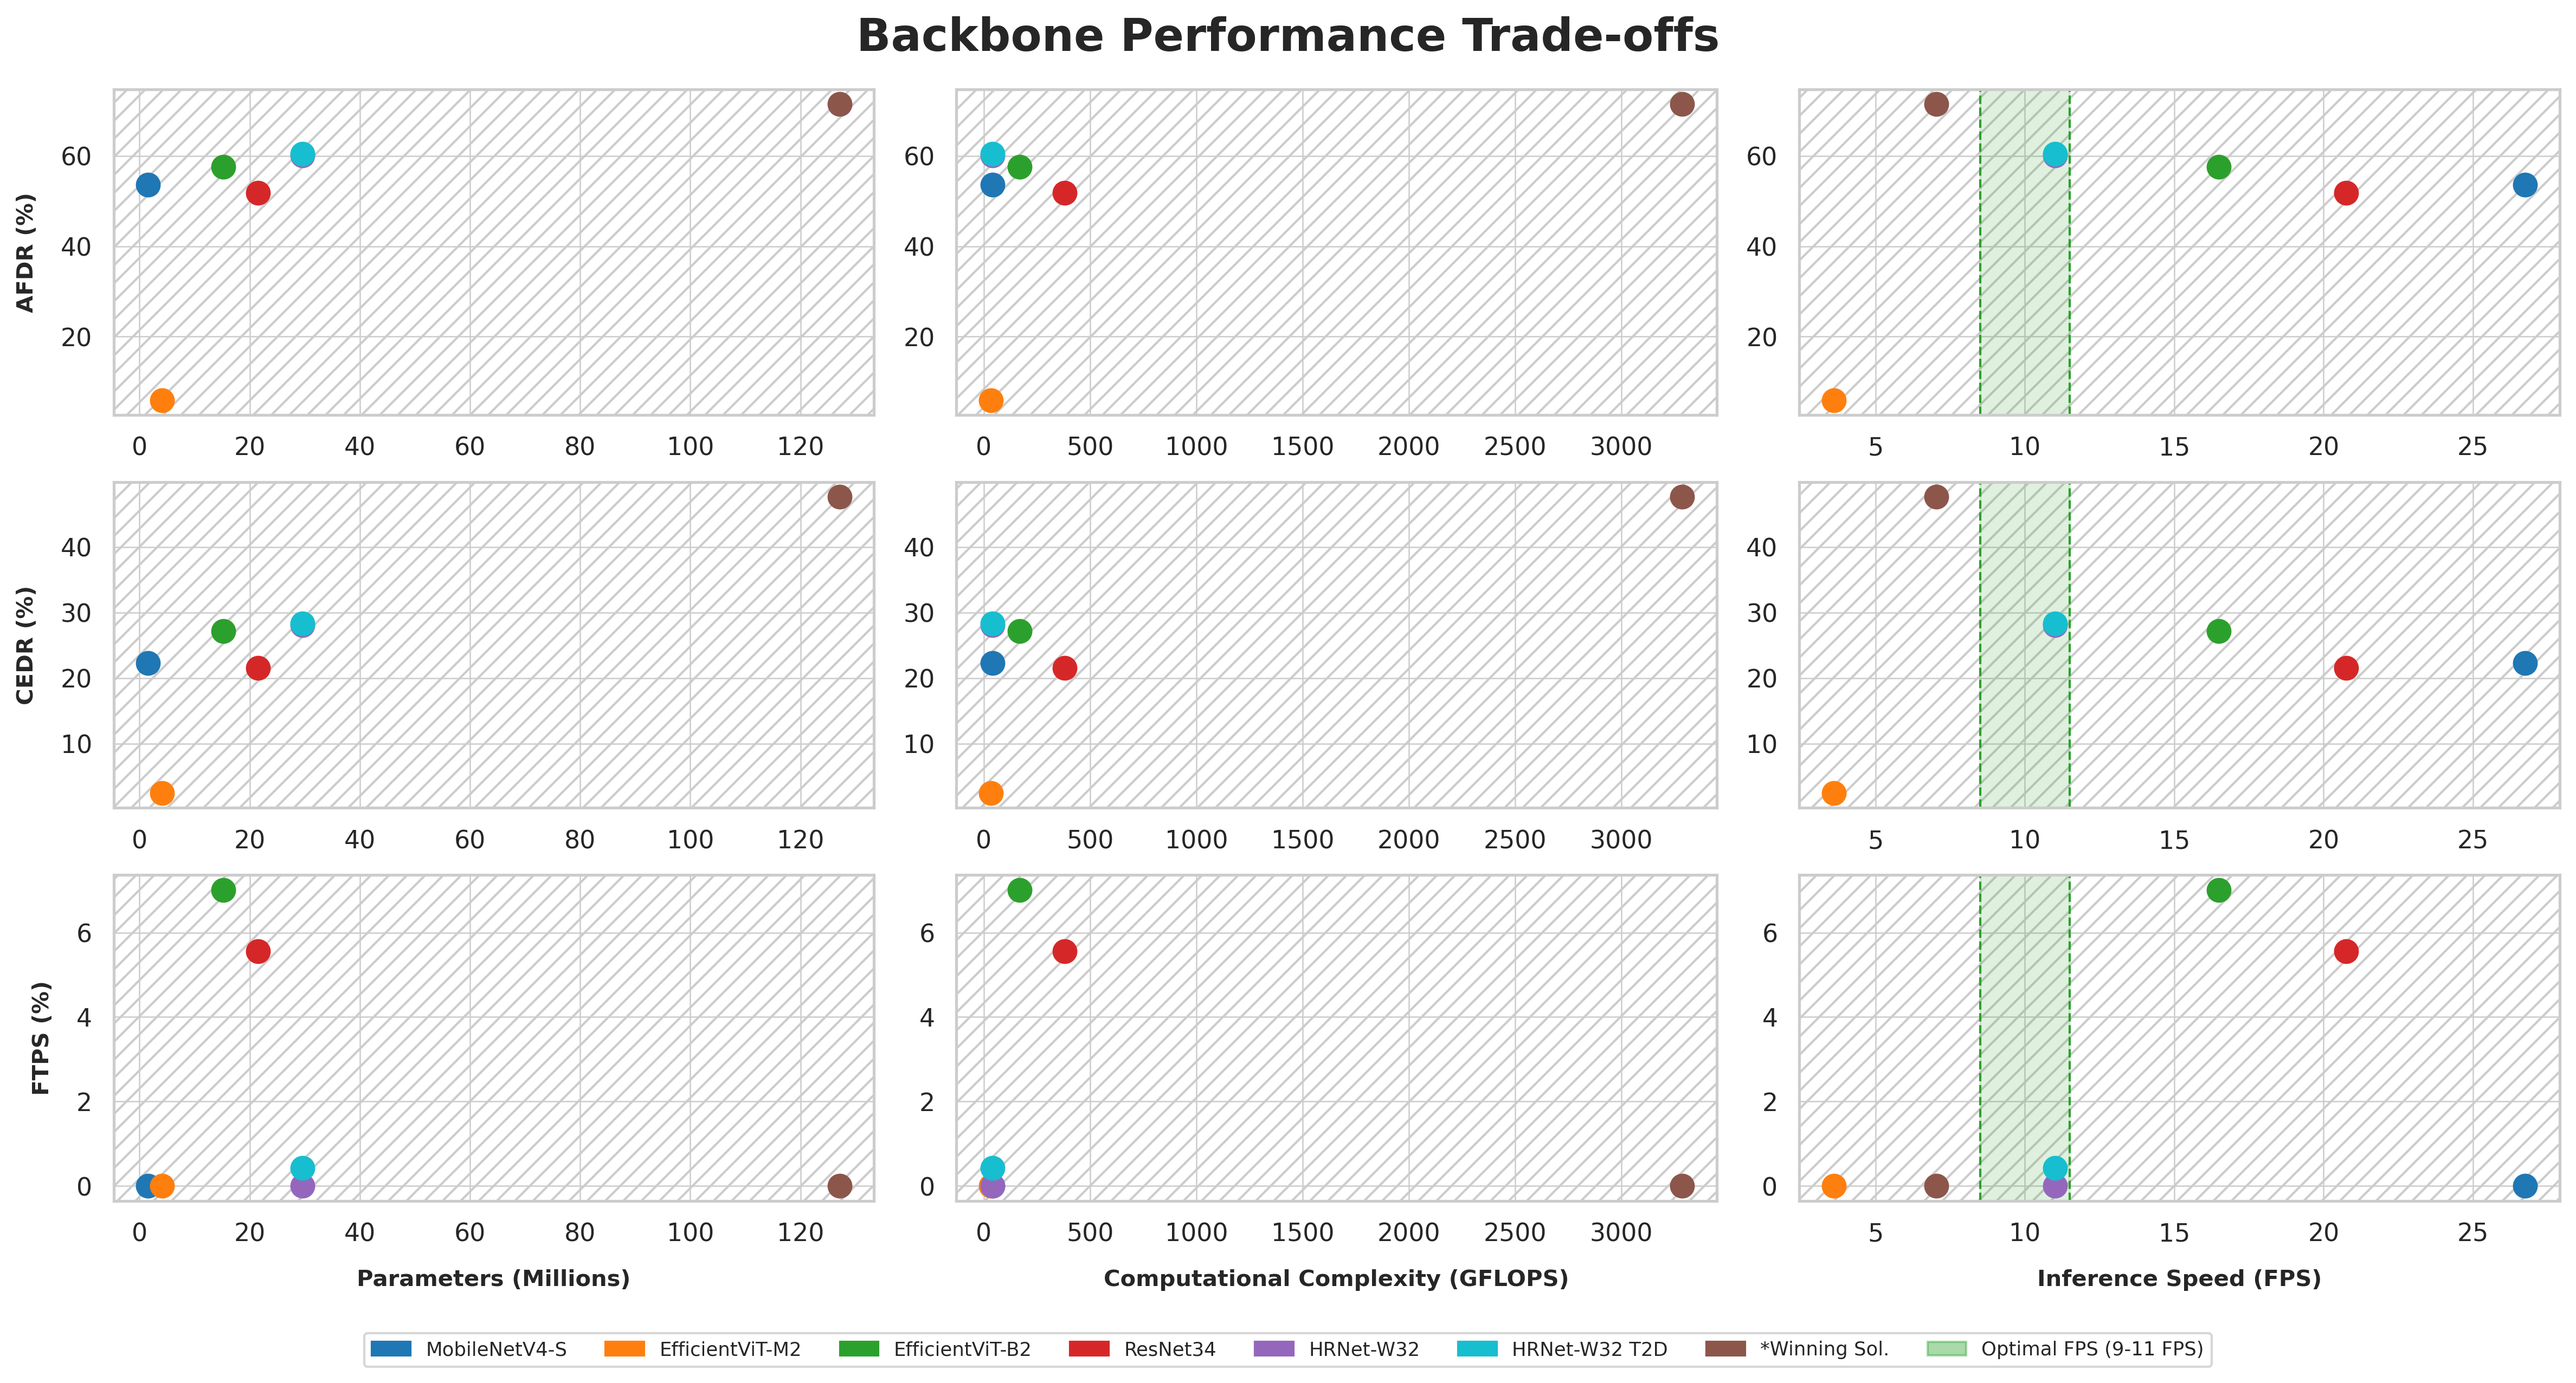
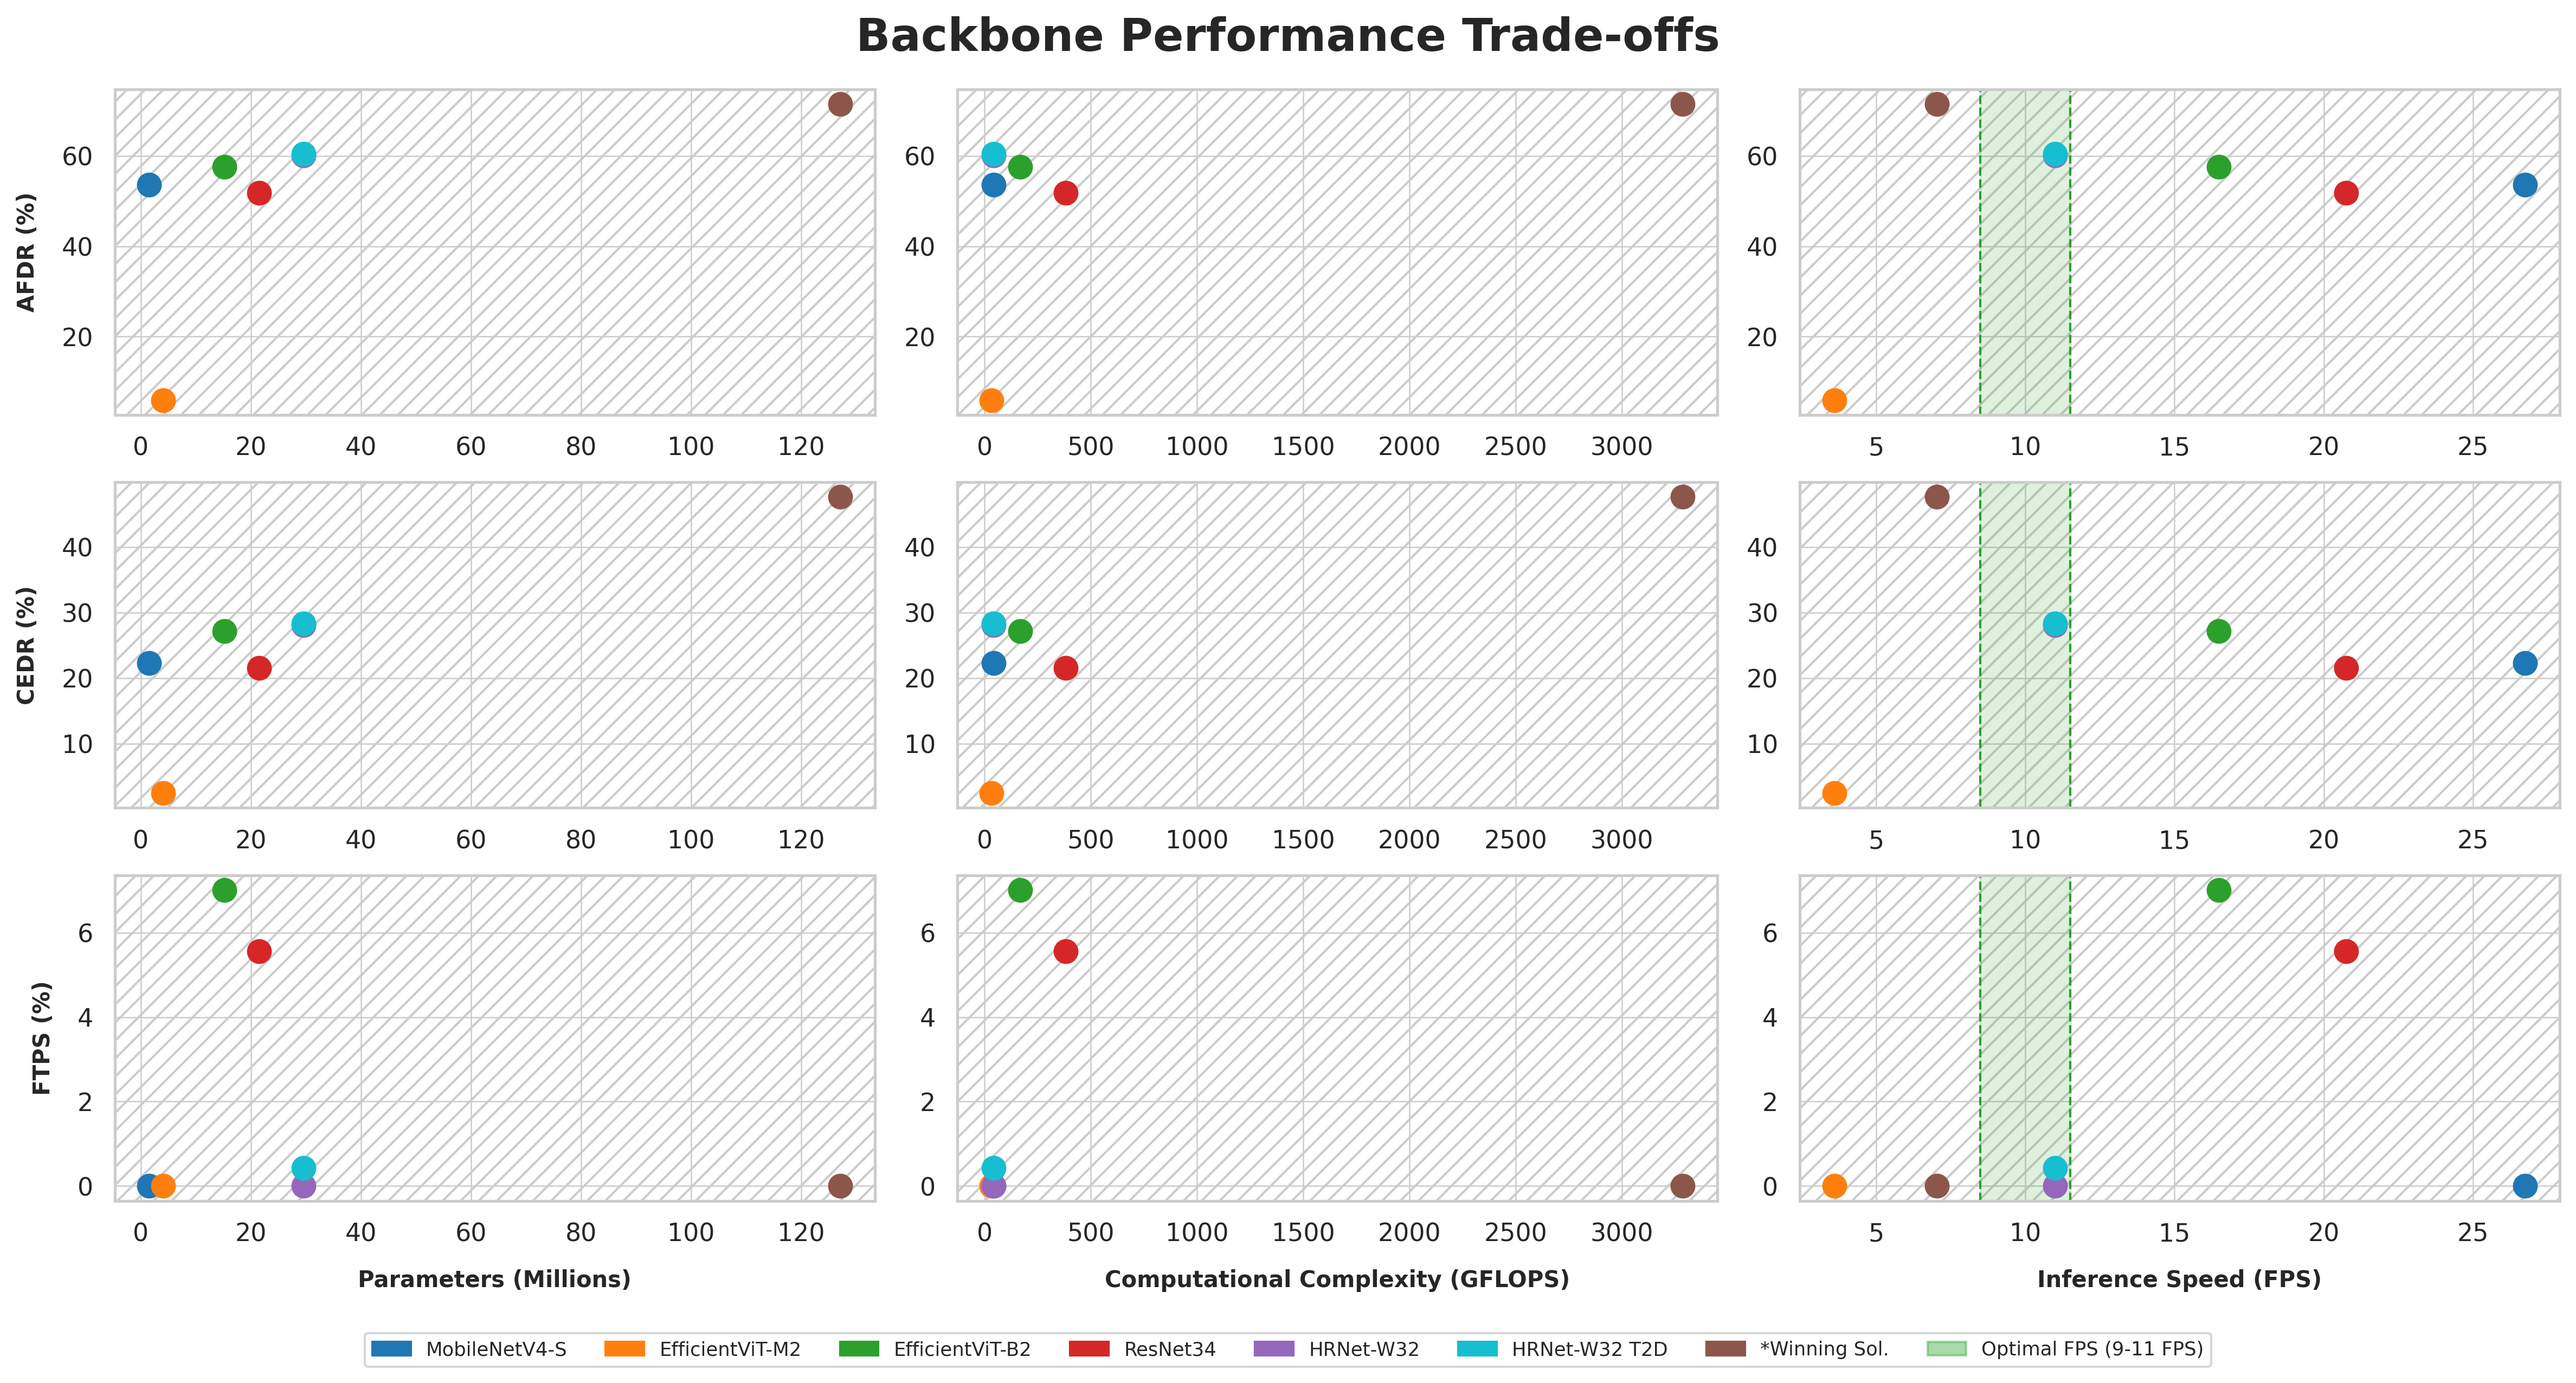
Fixing Legacy Visualisation Tools.

diff --git a/src/data/original_dataset/visualise_detection_results.py b/src/data/original_dataset/visualise_detection_results.py
@@ -1,0 +1,218 @@
+# ------------------------------------------------------------------------------
+# -               V E R S I O N   I D E N T I F I C A T I O N                  -
+# ------------------------------------------------------------------------------
+# File:                    %name: visualise_detection_results.py %
+# Date Created:            %date_created: Mon May 08 12:26:32 2026 %
+# CM Version               %version: 1 %
+# CM Instance              %instance: 2 %
+# Author:                  %created_by: MBusato %
+# ------------------------------------------------------------------------------
+# -                          D E S C R I P T I O N                             -
+# ------------------------------------------------------------------------------
+# This script visualises the baseline backbone model evaluation results stored
+# in model_results_detection_metrics.csv by generating a 3x3 grid of scatter plots comparing
+# detection performance metrics against model complexity and inference speed.
+#
+# The plots are intended to support comparative analysis of backbone
+# architectures by highlighting performance trade-offs, acceptable operating
+# regions, and overall model efficiency. The final figure is exported as a
+# high-resolution PNG suitable for reporting and technical documentation.
+#
+# USAGE INSTRUCTIONS:
+#   1. Run the Script from Project Root:
+#       - python3 -m src.data.original_dataset.visualise_detection_results
+#
+# ------------------------------------------------------------------------------
+# -                          L I C E N S I N G                                 -
+# ------------------------------------------------------------------------------
+# This software and its contents are the intellectual property of Lockheed
+# Martin Australia and are protected under applicable copyright and intellectual
+# property laws.
+#
+# All rights reserved. No part of this software may be reproduced, distributed,
+# modified, or transmitted in any form or by any means without the prior written
+# permission of Lockheed Martin Australia.
+#
+# Unauthorised use, copying, or distribution of this software is strictly
+# prohibited.
+# ------------------------------------------------------------------------------
+
+import pandas as pd
+import matplotlib.pyplot as plt
+import matplotlib.patches as mpatches
+import matplotlib.ticker as ticker
+import seaborn as sns
+
+# ------------------------------------------------------------------------------
+#                                   CONFIGURATION
+# ------------------------------------------------------------------------------
+# Load Data.
+df = pd.read_csv('results/core_improvement/model_results_detection_metrics.csv')
+
+# Variables Used for the X-axis & Y-axis Comparisons.
+x_vars   = ['Params', 'GFLOPS', 'FPS']
+y_vars   = ['AFDR',   'FPPI',   'EDR']
+
+# Human-Readable Axis Labels for Each Metric.
+x_labels = ['Parameters (Millions)', 'Computational Complexity (GFLOPS)', 'Inference Speed (FPS)']
+y_labels = ['AFDR (%)', 'FPPI', 'EDR Total (%)']
+
+# Consistent Colour Mapping for Each Backbone Architecture.
+MODEL_COLOURS = {
+    'MobileNetV4-S':   '#1f77b4',
+    'EfficientViT-M2': '#ff7f0e',
+    'EfficientViT-B2': '#2ca02c',
+    'ResNet34':        '#d62728',
+    'HRNet-W32':       '#9467bd',
+    '*Winning Sol.':   '#8c564b',
+}
+
+# Acceptable FPS Operating Region Used for Visual Highlighting.
+FPS_GREEN_LOW   = 8.5
+FPS_GREEN_HIGH  = 11.5
+FPPI_RED_THRESH = 0.0005
+
+# Symlog Threshold Used for FPPI Visualisation.
+FPPI_LINTHRESH  = 1e-6
+
+# Slightly Extend the Upper FPPI Plotting Limit for Readability.
+FPPI_YMAX       = df['FPPI'].max() * 1.3
+
+# Padding Ratio Applied to Axis Limits So Points Do Not Sit Directly Against 
+# Subplot Boundaries.
+PADDING = 0.05
+
+# Configure the Overall Plotting Theme.
+sns.set_theme(style="whitegrid")
+
+# Create a 3x3 Subplot Layout for All Metric Comparisons.
+fig, axes = plt.subplots(3, 3, figsize=(16, 9), dpi=300)
+
+# Add a Shared Figure Title.
+fig.suptitle('Backbone Performance Trade-offs',
+             fontsize=20, fontweight='bold', y=0.90)
+
+# Define Reusable Padding Function.
+def padded_limits(series, padding=PADDING):
+    """
+    Calculate padded axis limits for improved plot readability.
+
+    Args:
+        series (pd.Series): Data series used to determine axis limits.
+        padding (float):    Fractional padding applied to the data range.
+
+    Returns:
+        tuple: Lower and upper axis limits with padding applied.
+    """
+    lo, hi = series.min(), series.max()
+    span = hi - lo if hi != lo else abs(hi) or 1.0
+    return lo - span * padding, hi + span * padding
+
+# Compute x-axis Limits So all Plots Remain Visually Aligned.
+x_limits = [padded_limits(df[col]) for col in x_vars]
+# ------------------------------------------------------------------------------
+
+
+# ------------------------------------------------------------------------------
+#                                DRAW EACH SUBPLOT
+# ------------------------------------------------------------------------------
+# Generate Each Subplot Independently.
+for i, y_col in enumerate(y_vars):
+    for j, x_col in enumerate(x_vars):
+        # Make Axis.
+        ax = axes[i, j]
+
+        # Configure the Subplot Background Styling.
+        ax.set_facecolor('white')
+        ax.set_axisbelow(True)
+        
+        # Draw Major Grid Lines.
+        ax.grid(True, which='major', color='#cccccc', linewidth=0.6)
+
+        # Add a Subtle Cross-Hatched Background for Visual Structure.
+        hatch_patch = mpatches.FancyBboxPatch((0, 0), 1, 1, transform=ax.transAxes, linewidth=0, facecolor='none', edgecolor='#cccccc', hatch='///', zorder=0) 
+        ax.add_patch(hatch_patch)
+
+        # Apply Shared x-axis Limits Across Each Subplot Column.
+        ax.set_xlim(x_limits[j])
+
+        # Configure FPPI Plots Using a Symmetric Logarithmic Scale.
+        if y_col == 'FPPI':
+            ax.set_yscale('symlog', linthresh=FPPI_LINTHRESH)
+            ax.set_ylim(0, FPPI_YMAX)
+
+            # Define Clean Logarithmic Tick Locations.
+            ax.yaxis.set_major_locator(ticker.FixedLocator([0, 1e-5, 1e-4, 1e-3, 1e-2, 1e-1]))
+            
+            # Format Ticks Using Scientific Notation.
+            ax.yaxis.set_major_formatter(ticker.LogFormatterSciNotation(labelOnlyBase=False))
+
+        # Highlight the Acceptable FPS Operating Range.
+        if x_col == 'FPS':
+            ax.axvspan(FPS_GREEN_LOW, FPS_GREEN_HIGH, color='#2ca02c', alpha=0.15, zorder=1)
+            ax.axvline(FPS_GREEN_LOW,  color='#2ca02c', lw=1.0, linestyle='--', zorder=2)
+            ax.axvline(FPS_GREEN_HIGH, color='#2ca02c', lw=1.0, linestyle='--', zorder=2)
+
+        # Highlight the Unacceptable FPPI Operating Region.
+        if y_col == 'FPPI':
+            ax.axhspan(FPPI_RED_THRESH, FPPI_YMAX, color='#d62728', alpha=0.12, zorder=1)
+            ax.axhline(FPPI_RED_THRESH, color='#d62728', lw=1.0, linestyle='--', zorder=2)
+            ax.set_ylim(0, FPPI_YMAX)
+
+        # Plot All Backbone Model Data Points.
+        for _, row in df.iterrows():
+            colour = MODEL_COLOURS.get(row['Model'], '#333333')
+            ax.scatter(row[x_col], row[y_col], s=100, color=colour, zorder=3)
+
+        # Only Display x-axis Labels on the Bottom Row.
+        if i == 2:
+            ax.set_xlabel(x_labels[j], fontsize=10, fontweight='bold', labelpad=10)
+        else:
+            ax.set_xlabel('')
+
+        # Only Display y-axis Labels on the Left Column.
+        if j == 0:
+            ax.set_ylabel(y_labels[i], fontsize=10, fontweight='bold', labelpad=10)
+        else:
+            ax.set_ylabel('')
+# ------------------------------------------------------------------------------
+
+
+# ------------------------------------------------------------------------------
+#                                SHARED LEGEND
+# ------------------------------------------------------------------------------
+# Create Legend Entries for Each Model Colour.
+model_handles = [
+    mpatches.Patch(color=colour, label=model)
+    for model, colour in MODEL_COLOURS.items()
+]
+
+# Create Legend Entries for Highlighted Operating Regions.
+region_handles = [
+    mpatches.Patch(color='#2ca02c', alpha=0.4, label='Optimal FPS (9-11 FPS)'),
+    mpatches.Patch(color='#d62728', alpha=0.3, label='Unacceptable FPPI (> 0.0005)'),
+]
+
+# Add a Shared Legend Beneath the Subplot Grid.
+fig.legend(
+    handles=model_handles + region_handles,
+    loc='lower center',
+    ncol=len(model_handles) + len(region_handles),
+    fontsize=8.5,
+    frameon=True,
+    bbox_to_anchor=(0.5, -0.03),
+)
+# ------------------------------------------------------------------------------
+
+
+# ------------------------------------------------------------------------------
+#                                LAYOUT & SAVE
+# ------------------------------------------------------------------------------
+# Optimise Subplot Spacing & Export the Final Figure.
+plt.tight_layout()
+plt.subplots_adjust(top=0.85, bottom=0.09)
+
+# Save the Figure as a High-Resolution PNG Image.
+plt.savefig('results/core_improvement/SAA_Backbone_Tradeoffs_Detection.png', bbox_inches='tight')
+print("Saved: results/core_improvement/SAA_Backbone_Tradeoffs_Detection.png")
+# ------------------------------------------------------------------------------

diff --git a/src/data/original_dataset/visualise_tracking_results.py b/src/data/original_dataset/visualise_tracking_results.py
@@ -1,7 +1,7 @@
 # ------------------------------------------------------------------------------
 # -               V E R S I O N   I D E N T I F I C A T I O N                  -
 # ------------------------------------------------------------------------------
-# File:                    %name: visualise_results.py %
+# File:                    %name: visualise_tracking_results.py %
 # Date Created:            %date_created: Mon May 08 12:26:32 2026 %
 # CM Version               %version: 2 %
 # CM Instance              %instance: 1 %
@@ -10,7 +10,7 @@
 # -                          D E S C R I P T I O N                             -
 # ------------------------------------------------------------------------------
 # This script visualises the baseline backbone model evaluation results stored
-# in model_results_new_metrics.csv by generating a 3x3 grid of scatter plots
+# in model_results_tracking_metrics.csv by generating a 3x3 grid of scatter plots
 # comparing detection performance metrics (AFDR, CEDR, FTPS) against model
 # complexity and inference speed.
 #
@@ -21,7 +21,7 @@
 #
 # USAGE INSTRUCTIONS:
 #   1. Run the Script from Project Root:
-#       - python3 -m src.data.visualise_results
+#       - python3 -m src.data.original_dataset.visualise_tracking_results
 #
 # ------------------------------------------------------------------------------
 # -                          L I C E N S I N G                                 -
@@ -47,7 +47,7 @@ import seaborn as sns
 #                                   CONFIGURATION
 # ------------------------------------------------------------------------------
 # Load Data.
-df = pd.read_csv('results/core_improvement/model_results_new_metrics.csv')
+df = pd.read_csv('results/core_improvement/model_results_tracking_metrics.csv')
 
 # Variables Used for the X-axis & Y-axis Comparisons.
 x_vars   = ['Params', 'GFLOPS', 'FPS']
@@ -195,6 +195,6 @@ plt.tight_layout()
 plt.subplots_adjust(top=0.85, bottom=0.09)
 
 # Save the Figure as a High-Resolution PNG Image.
-plt.savefig('results/core_improvement/SAA_Backbone_Tradeoffs.png', bbox_inches='tight')
-print("Saved: results/core_improvement/SAA_Backbone_Tradeoffs.png")
+plt.savefig('results/core_improvement/SAA_Backbone_Tradeoffs_Tracking.png', bbox_inches='tight')
+print("Saved: results/core_improvement/SAA_Backbone_Tradeoffs_Tracking.png")
 # ------------------------------------------------------------------------------
